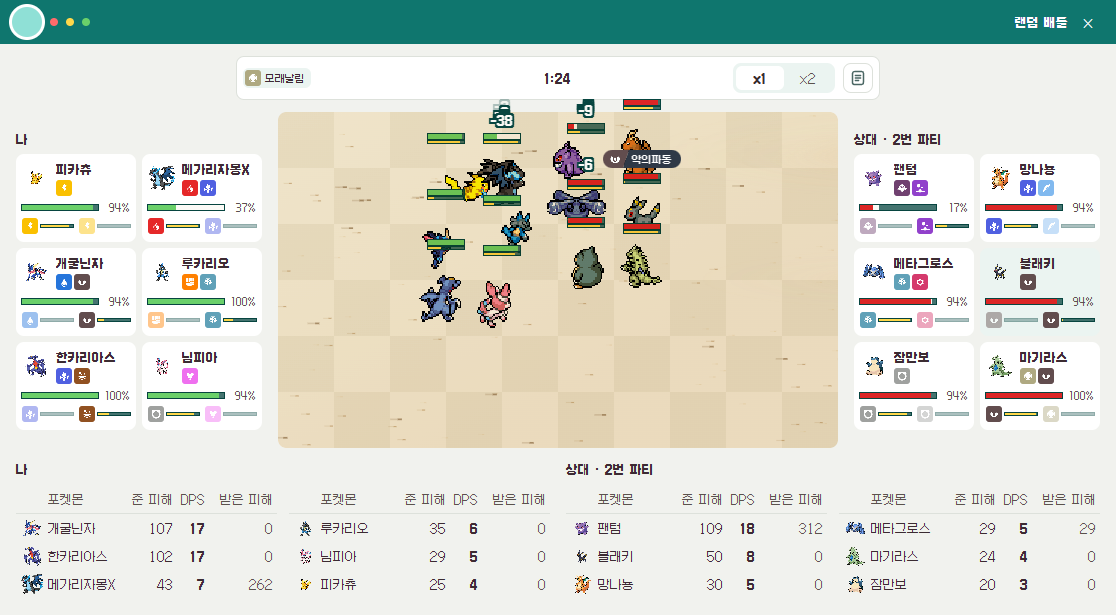
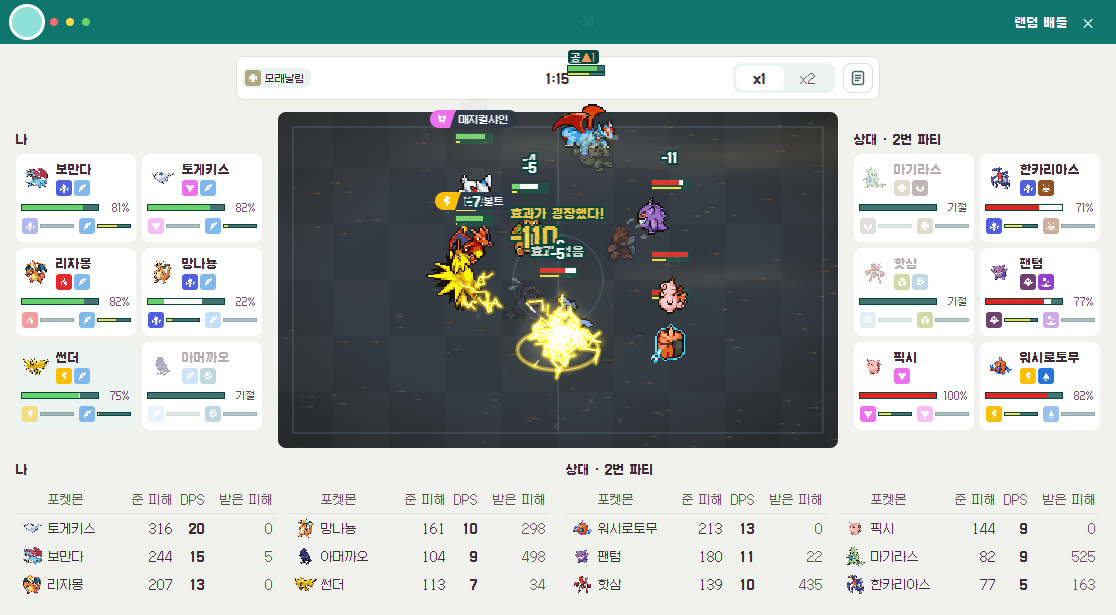
docs: [설명서] 배틀 창 캡처를 0.23.0 어두운 경기장으로 다시 찍음

diff --git a/docs/images/README.md b/docs/images/README.md
@@ -53,7 +53,7 @@
 | `connect` | `connect.png` | 설명서 AI 코딩 도구 연결 | 사용자 모달 `연결` 탭. CLI 하나 이상이 `연결됨` | 넣음 (2026-09-30, `dist/tools/dev/dev-manage.js --docs`) |
 | `care-detail` | `care-detail.png` | 설명서 돌봄 | 파티 상세 기기 창. 친밀도·만복도·심심함이 보이게 | 넣음 (2026-10-24) |
 | `battle-party` | `battle-party.png` | 설명서 모험과 배틀 | 모험 탭 배틀 파티와 옆에 붙은 배틀 파티 상세 기기 창 | 넣음 (2026-10-24) |
-| `battle` | `battle.png` | 설명서 배틀 시작 | 랜덤 배틀 창. 판이 진행 중이고 기술 이름·피해 숫자가 보이게 | 넣음 (2026-10-24, `POKEBUDDY_DEV_BATTLE` 로컬 엔진 판) |
+| `battle` | `battle.png` | 설명서 배틀 시작 | 랜덤 배틀 창. 판이 진행 중이고 기술 이름·피해 숫자가 보이게 | 넣음 (2026-11-22 어두운 경기장으로 다시 찍음, 앱 0.23.0 `POKEBUDDY_DEV_BATTLE` 로컬 엔진 판) |
 | `battle-moves` | `battle-moves.png` | 설명서 기술 | 기술 바꾸기 모달. 고를 기술이 여러 개 보이게 | 넣음 (2026-10-24) |
 | `mail` | `mail.png` | 설명서 계정과 우편함 | 우편함 편지 목록. 계정 아이디·이메일이 보이지 않게 | 넣음 (2026-10-24, 가짜 편지) |
 | `settings-general` | `settings-general.png` | 설명서 설정 | 설정 모달 `일반` 탭 | 넣음 (2026-10-24) |
